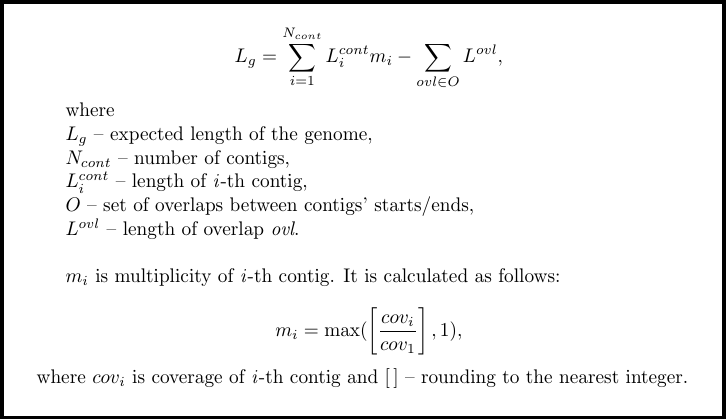
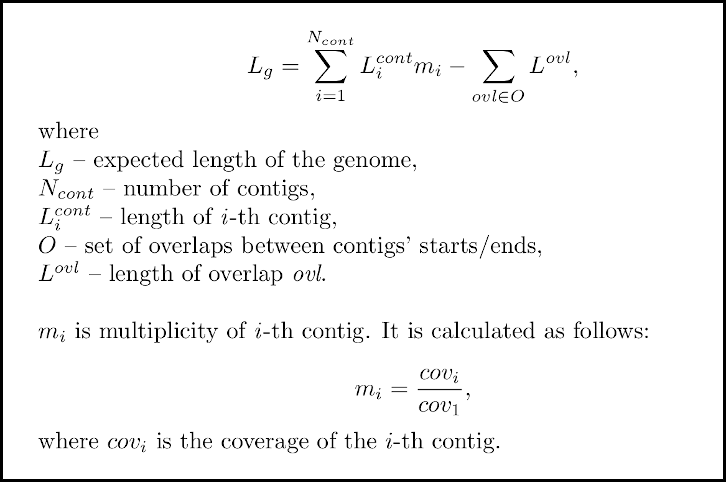
v1.6.a

diff --git a/src/combinator_statistics.py b/src/combinator_statistics.py
@@ -1,4 +1,4 @@
-# -*- coding: utf-8 -*-
+# -*- encoding: utf-8 -*-
 
 from typing import Collection, Sequence, Callable
 from statistics import mean, median
@@ -111,8 +111,8 @@ def calc_lq_coef(contig_collection: ContigCollection,
     # :param overlap_collection: instance of OverlapCollection returned by
     #   `src.overlaps.detect_adjacent_contigs` function;
 
-    # Total number of termini taking account of multiplicity
-    total_termini: int = 0
+    # Number of termini of a contig
+    num_contig_termini: int = 2
     # Total number of dead ends taking account of multiplicity
     total_dead_ends: int = 0
 
@@ -120,31 +120,24 @@ def calc_lq_coef(contig_collection: ContigCollection,
     contig: Contig
     # Iterate over contigs
     for i, contig in enumerate(contig_collection):
-
-        # Get rounded multiplicity
-        round_multplty: int = round(contig.multplty)
-        # Calculate number of termini taking account of multiplicity
-        num_termini: int = int(2 * round_multplty)
-
         # Count overlaps associated with start
-        num_start_matches: int = len(tuple(
+        start_is_not_dead: int = is_not_empty(tuple(
             filter(is_start_match, overlap_collection[i])
         ))
         # Count overlaps associated with end
-        num_end_matches:   int = len(tuple(
+        end_is_not_dead:   int = is_not_empty(tuple(
             filter(is_end_match, overlap_collection[i])
         ))
 
         # Calculate number of dead ends of the current contig
-        num_dead_ends: int = int(2 * round_multplty)\
-                             - min(round_multplty, num_start_matches)\
-                             - min(round_multplty, num_end_matches)
-
-        # Increment `total_termini` and `total_dead_ends`
-        total_termini += num_termini
+        num_dead_ends: int = num_contig_termini \
+                             - start_is_not_dead - end_is_not_dead
+        # Add to `total_dead_ends`
         total_dead_ends += num_dead_ends
     # end for
 
+    # Total number of termini taking account of multiplicity
+    total_termini: int = int(num_contig_termini * len(contig_collection))
     # Calculate the LQ coefficient
     lq_coef: float = (1 - total_dead_ends / total_termini) * 100.0
 
@@ -212,7 +205,6 @@ def calc_exp_genome_size(contig_collection: ContigCollection,
             for ovl in ovls_to_add:
                 total_overlap_len += ovl.ovl_len
             # end for
-
         # end for
     # end for
 
@@ -243,3 +235,8 @@ def is_end_match(ovl: Overlap) -> bool:
            or (ovl.terminus_i == END and ovl.terminus_j == RCEND)
            # or {ovl.terminus_i, ovl.terminus_j} == _END2END_MATCH
 # end def def is_end_match
+
+
+def is_not_empty(collection: Sequence) -> int:
+    return int(len(collection) != 0)
+# end def not_empty

diff --git a/tests/test_assign_multiplicity.py b/tests/test_assign_multiplicity.py
@@ -1,4 +1,4 @@
-# -*- coding: utf-8 -*-
+# -*- encoding: utf-8 -*-
 
 import os
 import pytest
@@ -230,7 +230,7 @@ class TestCalcMultpltyByCov:
         curr_cov: float = coverages_x0_dot_45_repeat[0]
         first_cov: float = coverages_x0_dot_45_repeat[1]
 
-        expected: float = 1.0
+        expected: float = 0.45
 
         obtained: float = amu._calc_multiplty_by_coverage(curr_cov, first_cov)
 
@@ -312,7 +312,7 @@ class TestAssignMultiplty:
 
         expected_multplts: Sequence[float] = tuple([
             1.0, # NODE_1
-            1.0, # NODE_2
+            0.8, # NODE_2
             1.8, # NODE_3
             1.2  # NODE_4
         ])

diff --git a/src/assign_multiplicity.py b/src/assign_multiplicity.py
@@ -1,4 +1,4 @@
-# -*- coding: utf-8 -*-
+# -*- encoding: utf-8 -*-
 
 from typing import MutableSequence
 
@@ -63,9 +63,7 @@ def _calc_multiplty_by_coverage(curr_coverage: float, first_contig_coverage: flo
     #   based on it's coverage (and also on coverage of the first contig).
     # :param curr_coverage: coverage of current contig;
     # :param curr_coverage: coverage of the first contig;
-
-    multiplicity: float = curr_coverage / first_contig_coverage
-    return max(multiplicity, 1.0)
+    return curr_coverage / first_contig_coverage
 # end def _calc_multiplty_by_coverage
 
 

diff --git a/combinator-FQ.py b/combinator-FQ.py
@@ -1,11 +1,11 @@
 #!/usr/bin/env python3
-# -*- coding: utf-8 -*-
+# -*- encoding: utf-8 -*-
 
 import sys
 
-__version__: str  = '1.5.b'
+__version__: str  = '1.6.a'
 # Year, month, day
-__last_update_date__: str = '2022-06-17'
+__last_update_date__: str = '2023-06-16'
 __min_python_version__: float = 3.6
 
 # Check python interpreter version
@@ -24,6 +24,7 @@ if sys.version_info.major + sys.version_info.minor*0.1 < __min_python_version__:
     # end if
     sys.exit(1)
 # end if
+
 
 from src.main import main
 

diff --git a/tests/test_combinator_statistics.py b/tests/test_combinator_statistics.py
@@ -1,4 +1,4 @@
-# -*- coding: utf-8 -*-
+# -*- encoding: utf-8 -*-
 
 import pytest
 from math import floor
@@ -320,7 +320,7 @@ class TestCalcLqCoef:
         # Should return 60.00 for `mock_contigs_spades_0`
         contig_collection, overlap_collection = mock_contigs_spades_0
 
-        expected_lq_coef: float = 60.00
+        expected_lq_coef: float = 75.00
 
         assert abs(sts.calc_lq_coef(contig_collection, overlap_collection) - expected_lq_coef) < 1e-2
     # end def test_calc_lq_coef_spades_0

diff --git a/src/output.py b/src/output.py
@@ -1,4 +1,4 @@
-# -*- coding: utf-8 -*-
+# -*- encoding: utf-8 -*-
 
 import os
 import sys
@@ -173,7 +173,7 @@ def write_adjacency_table(contig_collection: ContigCollection,
             outfile.write('{:.2f}'.format(contig.gc_content) + '\t')
 
             # Multiplicity
-            outfile.write('{:.1f}\t'.format(contig.multplty))
+            outfile.write('{:.2f}\t'.format(contig.multplty))
 
             # Empty column for annotation
             outfile.write('\t')

diff --git a/formulas/combinator-formulas.tex b/formulas/combinator-formulas.tex
@@ -20,7 +20,9 @@
 	
 	$m_{i}$ is multiplicity of \textit{i}-th contig. It is calculated as follows: 
 	
-	$$m_{i} = \max(\left[\frac{cov_{i}}{cov_{1}}\right], 1),$$  where $cov_{i}$ is coverage of \textit{i}-th contig and $\left[\,\right]$ -- rounding to the nearest integer.
+	$$ m_{i} = \frac{cov_{i}}{cov_{1}}, $$
+	
+	where $ cov_{i} $ is the coverage of the $i$-th contig.
 
 	\newpage
 

diff --git a/src/find_overlap.py b/src/find_overlap.py
@@ -1,4 +1,4 @@
-# -*- coding: utf-8 -*-
+# -*- encoding: utf-8 -*-
 
 def find_overlap_s2s(seq1: str, seq2: str, mink: int, maxk: int) -> int:
     # Function searches for identity between starts of seq1 and seq2.

diff --git a/src/main.py b/src/main.py
@@ -1,4 +1,4 @@
-# -*- coding: utf-8 -*-
+# -*- encoding: utf-8 -*-
 
 from typing import Sequence, Dict, Any
 

diff --git a/src/overlaps.py b/src/overlaps.py
@@ -1,4 +1,4 @@
-# -*- coding: utf-8 -*-
+# -*- encoding: utf-8 -*-
 
 from typing import NewType, Dict, List
 

diff --git a/src/platform.py b/src/platform.py
@@ -1,4 +1,4 @@
-# -*- coding: utf-8 -*-
+# -*- encoding: utf-8 -*-
 
 import sys
 from typing import NoReturn

diff --git a/tests/test_find_overlap.py b/tests/test_find_overlap.py
@@ -1,4 +1,4 @@
-# -*- coding: utf-8 -*-
+# -*- encoding: utf-8 -*-
 
 import pytest
 from typing import Tuple
